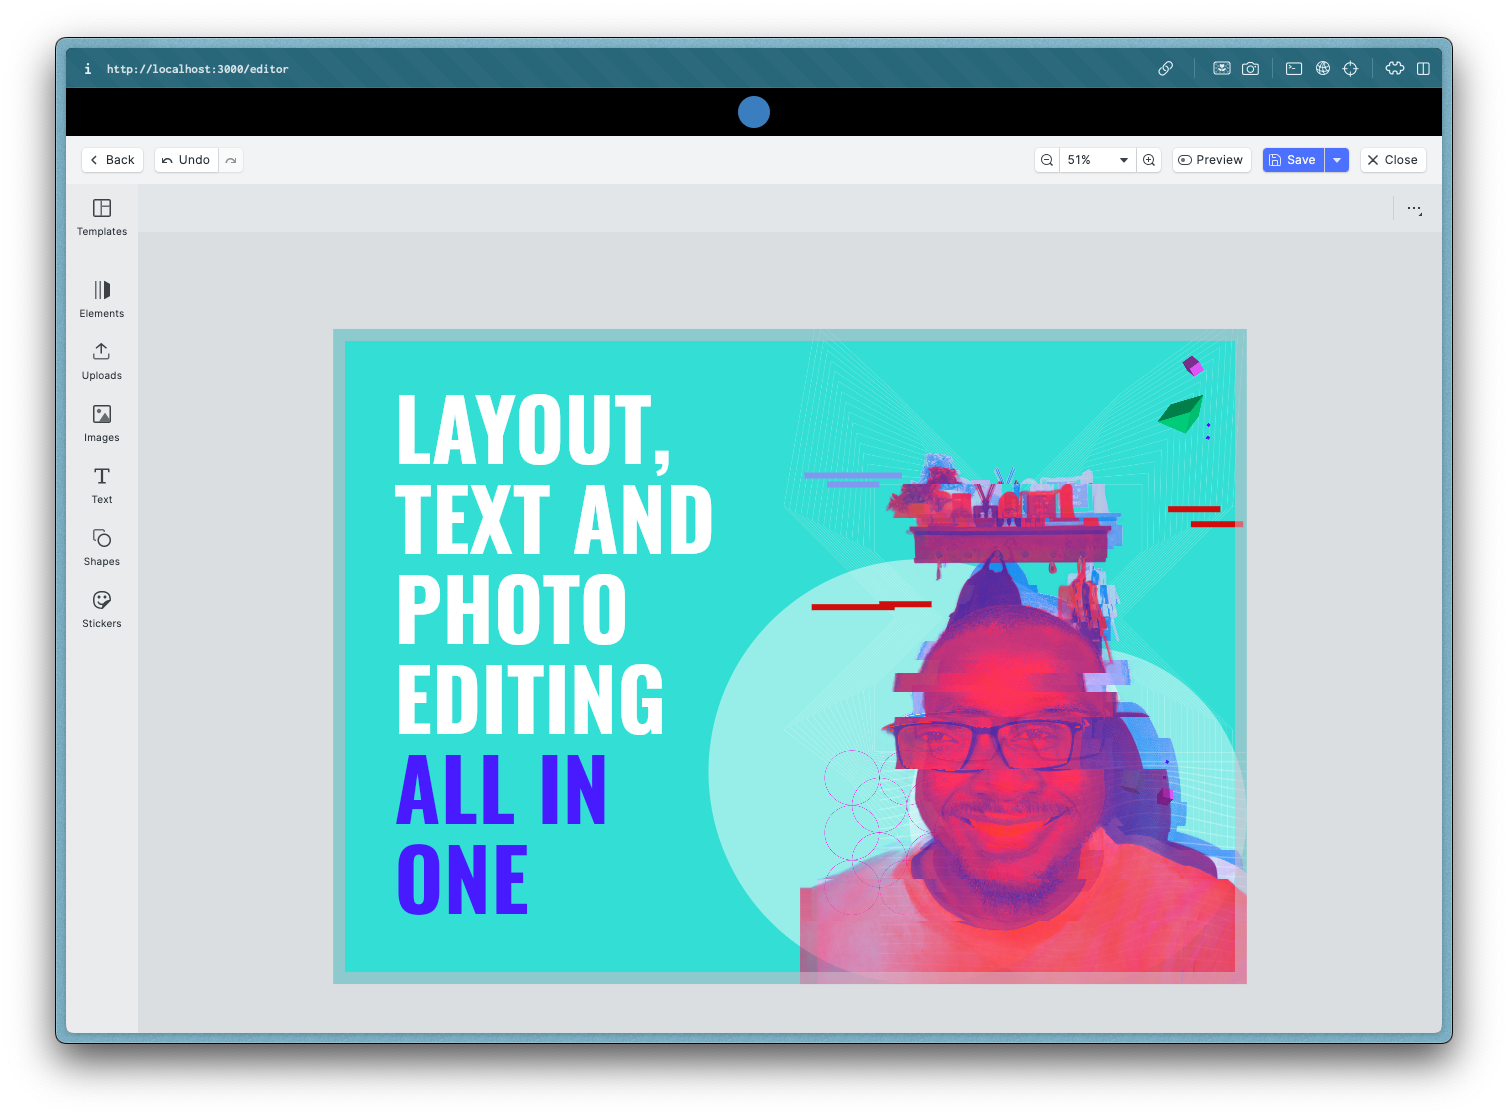
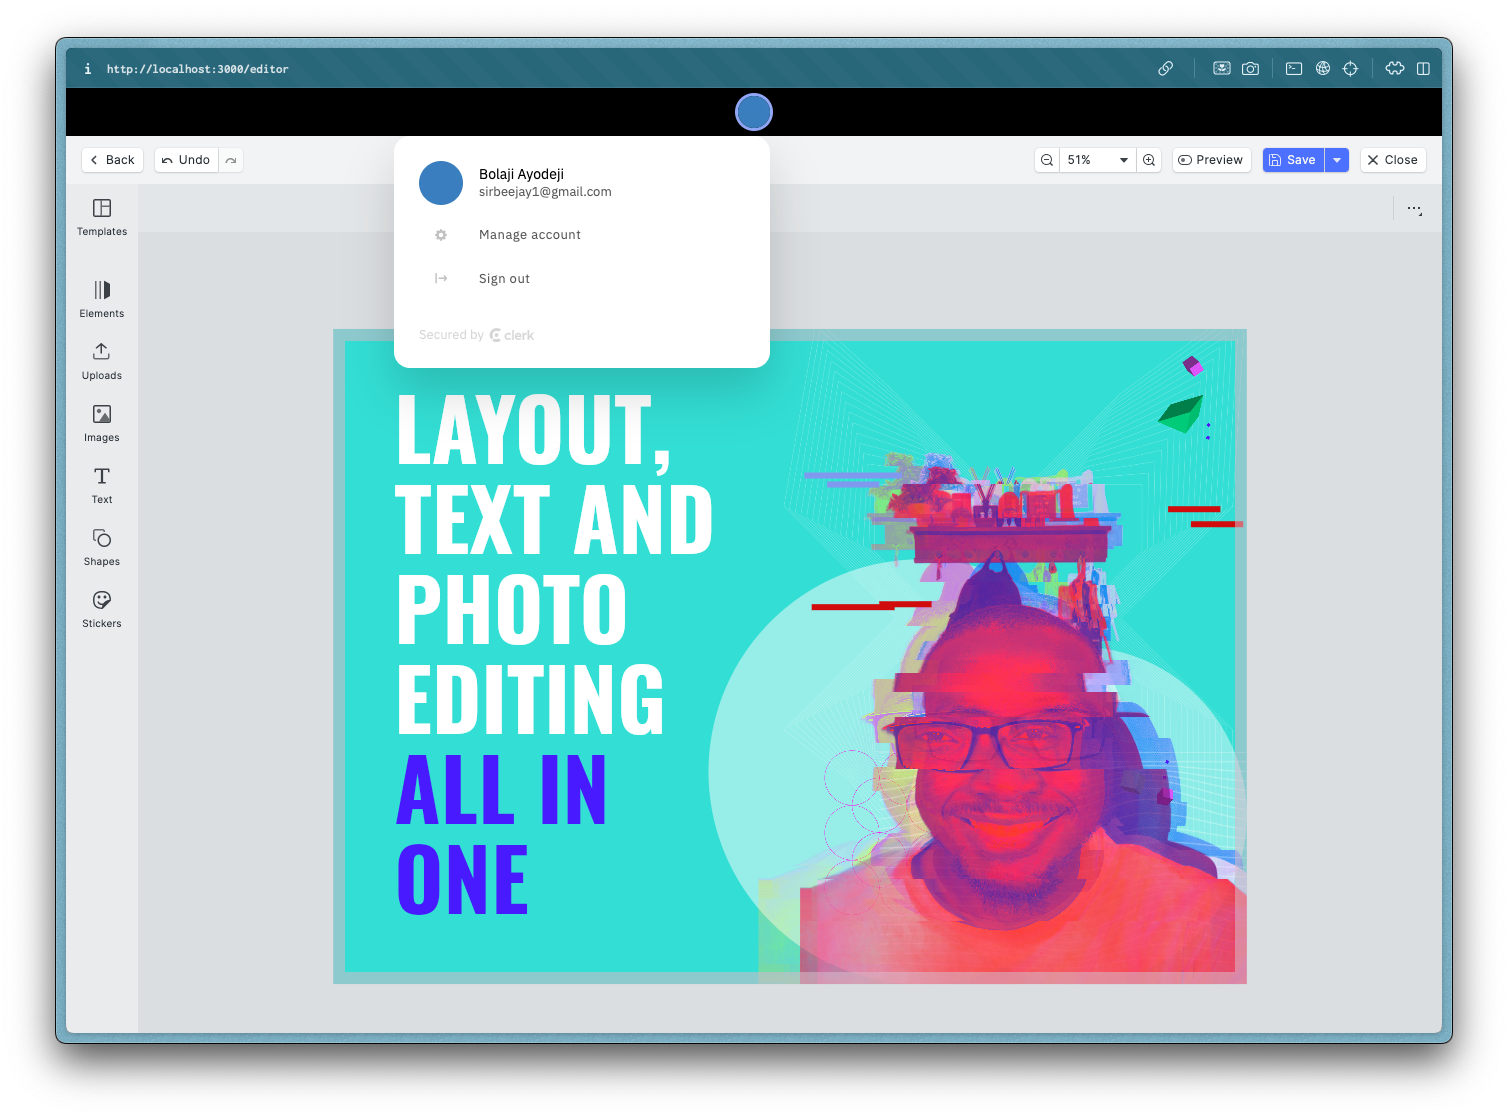
chore: cleanup engine logic

Changed region(s): [[0.2493, 0.1218, 0.5298, 0.3653], [0.4987, 0.3957, 0.7168, 0.8827], [0.6857, 0.487, 0.7168, 0.5479]]

diff --git a/app/components/headshotCanvas.tsx b/app/components/headshotCanvas.tsx
@@ -36,27 +36,27 @@ export default function BgAddPage() {
         engine.block.setPositionY(page, grids[i].y);
         engine.block.appendChild(scene, page);
 
-        // Get the color fill block of the page.
-        const colorFill = engine.block.getFill(page);
-
-        // Create an graphic block with an image fill
-        // and add it to the scene's page.
+        // Create a graphic block, set the shape/size,
+        // get the color fill block of the page,
+        // add a color to the block,
+        // and add the block to the scene's page.
         const block = engine.block.create("graphic");
         engine.block.setShape(block, engine.block.createShape("rect"));
         engine.block.setFill(block, engine.block.createFill("color"));
-        engine.block.setColor(colorFill, "fill/color/value", grids[i].color);
         engine.block.setWidth(block, 500);
         engine.block.setHeight(block, 500);
+        const colorFill = engine.block.getFill(page);
+        engine.block.setColor(colorFill, "fill/color/value", grids[i].color);
         engine.block.appendChild(page, block);
 
+        // Create a block with an image fill
+        // and add it to the scene's page.
         const imageFill = engine.block.createFill("image");
         engine.block.setString(
           imageFill,
           "fill/image/imageFileURI",
           imagePath || defaultImage
         );
-
-        engine.block.destroy(engine.block.getFill(block));
         engine.block.setFill(block, imageFill);
       }
 
@@ -106,17 +106,15 @@ export default function BgAddPage() {
         accept="image/png, image/jpeg, image/jpg"
         id="upload-headshot"
         name="upload-headshot"
-        className="pt-6 text-white
-        file:mr-4 file:py-2 file:px-4
-        file:rounded-full file:border-0
-      file:bg-white file:text-black
-      hover:file:bg-blue-200"
+        className="mt-6 text-white border-2 border-white
+        file:mr-4 file:p-2 file:border-0 
+        file:bg-white file:text-black hover:file:bg-blue-200"
         onChange={uploadImage}
         required
       />
       <button
         id="export_button"
-        className="w-80 lg:w-52 px-6 py-4 mt-6 text-center bg-white text-black hover:bg-blue-200"
+        className="w-80 lg:w-52 px-6 py-4 mt-4 text-center bg-white text-black hover:bg-blue-200"
       >
         Export Pages
       </button>
